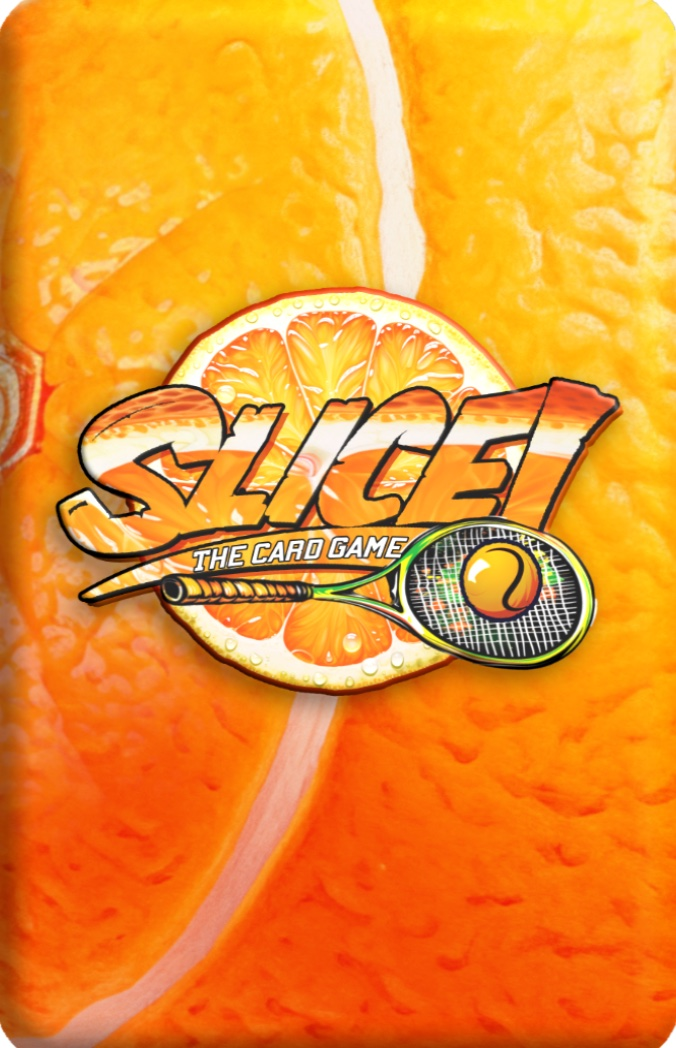
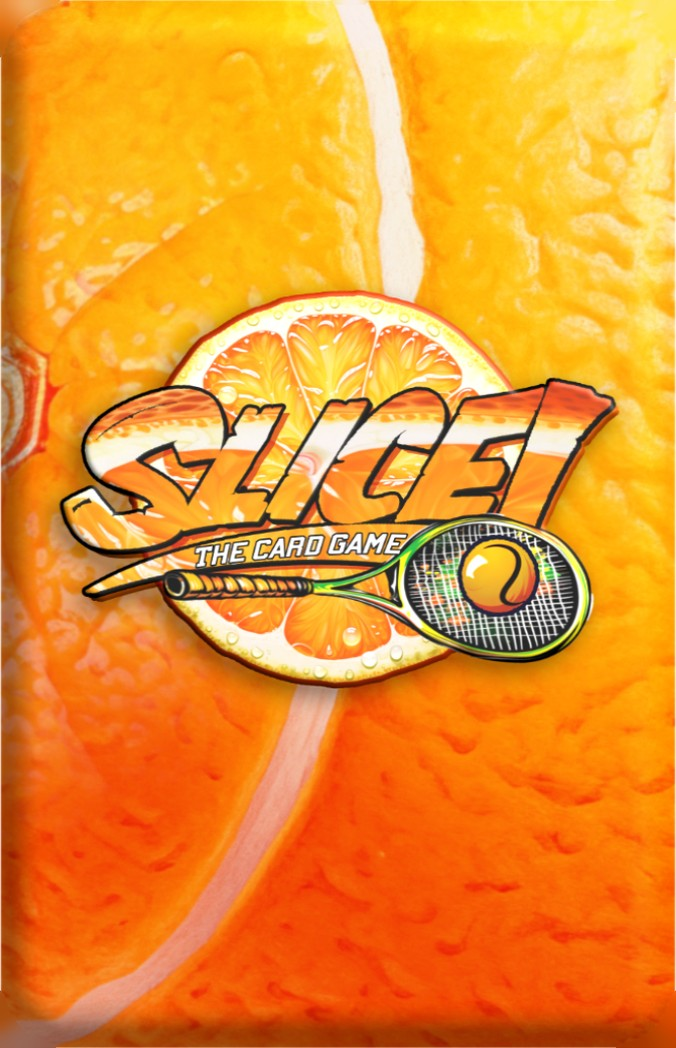
Walkthrough: fix the ghost edge on face-down cards
The card-back image used the class "b", which the player bar buttons also use,
so every card back picked up the buttons' padding, translucent background and
border. Renamed it to "bk". Card back images now have their white corners filled.

diff --git a/intro.html b/intro.html
@@ -46,7 +46,7 @@ body.record #host,body.embed #host{bottom:0}
 /* corners clipped with clip-path too: Safari ignores border-radius on 3D-flipped images */
 .ci img{position:absolute;inset:0;width:100%;height:100%;object-fit:cover;border-radius:7.2%/4.6%;-webkit-clip-path:inset(0 round 7.2% / 4.6%);clip-path:inset(0 round 7.2% / 4.6%);backface-visibility:hidden;-webkit-backface-visibility:hidden}
 .card .sh{position:absolute;inset:1%;border-radius:7.2%/4.6%;box-shadow:0 calc(4 * var(--u)) calc(10 * var(--u)) rgba(0,0,0,.55)}
-.ci .b{transform:rotateY(180deg)}
+.ci .bk{transform:rotateY(180deg)}
 .card .dim{position:absolute;inset:0;border-radius:7.2%/4.6%;background:rgba(6,8,5,.66);opacity:0;visibility:hidden}
 .card .glow{position:absolute;inset:-3.5%;border-radius:9%/6%;box-shadow:0 0 0 calc(2.4 * var(--u)) var(--gc,var(--lime)),0 0 calc(14 * var(--u)) calc(3 * var(--u)) var(--gc,rgba(198,244,50,.7));opacity:0;visibility:hidden}
 .card .hl{position:absolute;border:calc(1.8 * var(--u)) solid #fff;border-radius:calc(3.5 * var(--u));box-shadow:0 0 0 calc(1.2 * var(--u)) rgba(0,0,0,.45),0 0 calc(8 * var(--u)) rgba(255,255,255,.75);opacity:0;visibility:hidden}
@@ -326,7 +326,7 @@ function fit() {
 const el = (cls, html = '', parent = fxL) => { const d = document.createElement('div'); d.className = cls; d.innerHTML = html; parent.appendChild(d); return d; };
 
 function C(name, w, { back = 'LIME', down = false } = {}) {
-  const c = el('card', `<div class="sh"></div><div class="ci"><img class="f" src="assets/cards/${name}.jpg" alt=""><img class="b" src="assets/cards/${back}_CARD_BACK.jpg" alt=""></div><div class="dim"></div><div class="glow"></div>`, cardsL);
+  const c = el('card', `<div class="sh"></div><div class="ci"><img class="f" src="assets/cards/${name}.jpg" alt=""><img class="bk" src="assets/cards/${back}_CARD_BACK.jpg" alt=""></div><div class="dim"></div><div class="glow"></div>`, cardsL);
   c.style.width = w + 'px'; c.style.height = (w * 1048 / 676) + 'px'; c.style.setProperty('--u', (w / 100) + 'px');
   c.ci = $('.ci', c); c.dimEl = $('.dim', c); c.glowEl = $('.glow', c);
   gsap.set(c, { xPercent: -50, yPercent: -50, x: -2000, y: -2000, autoAlpha: 0 });
